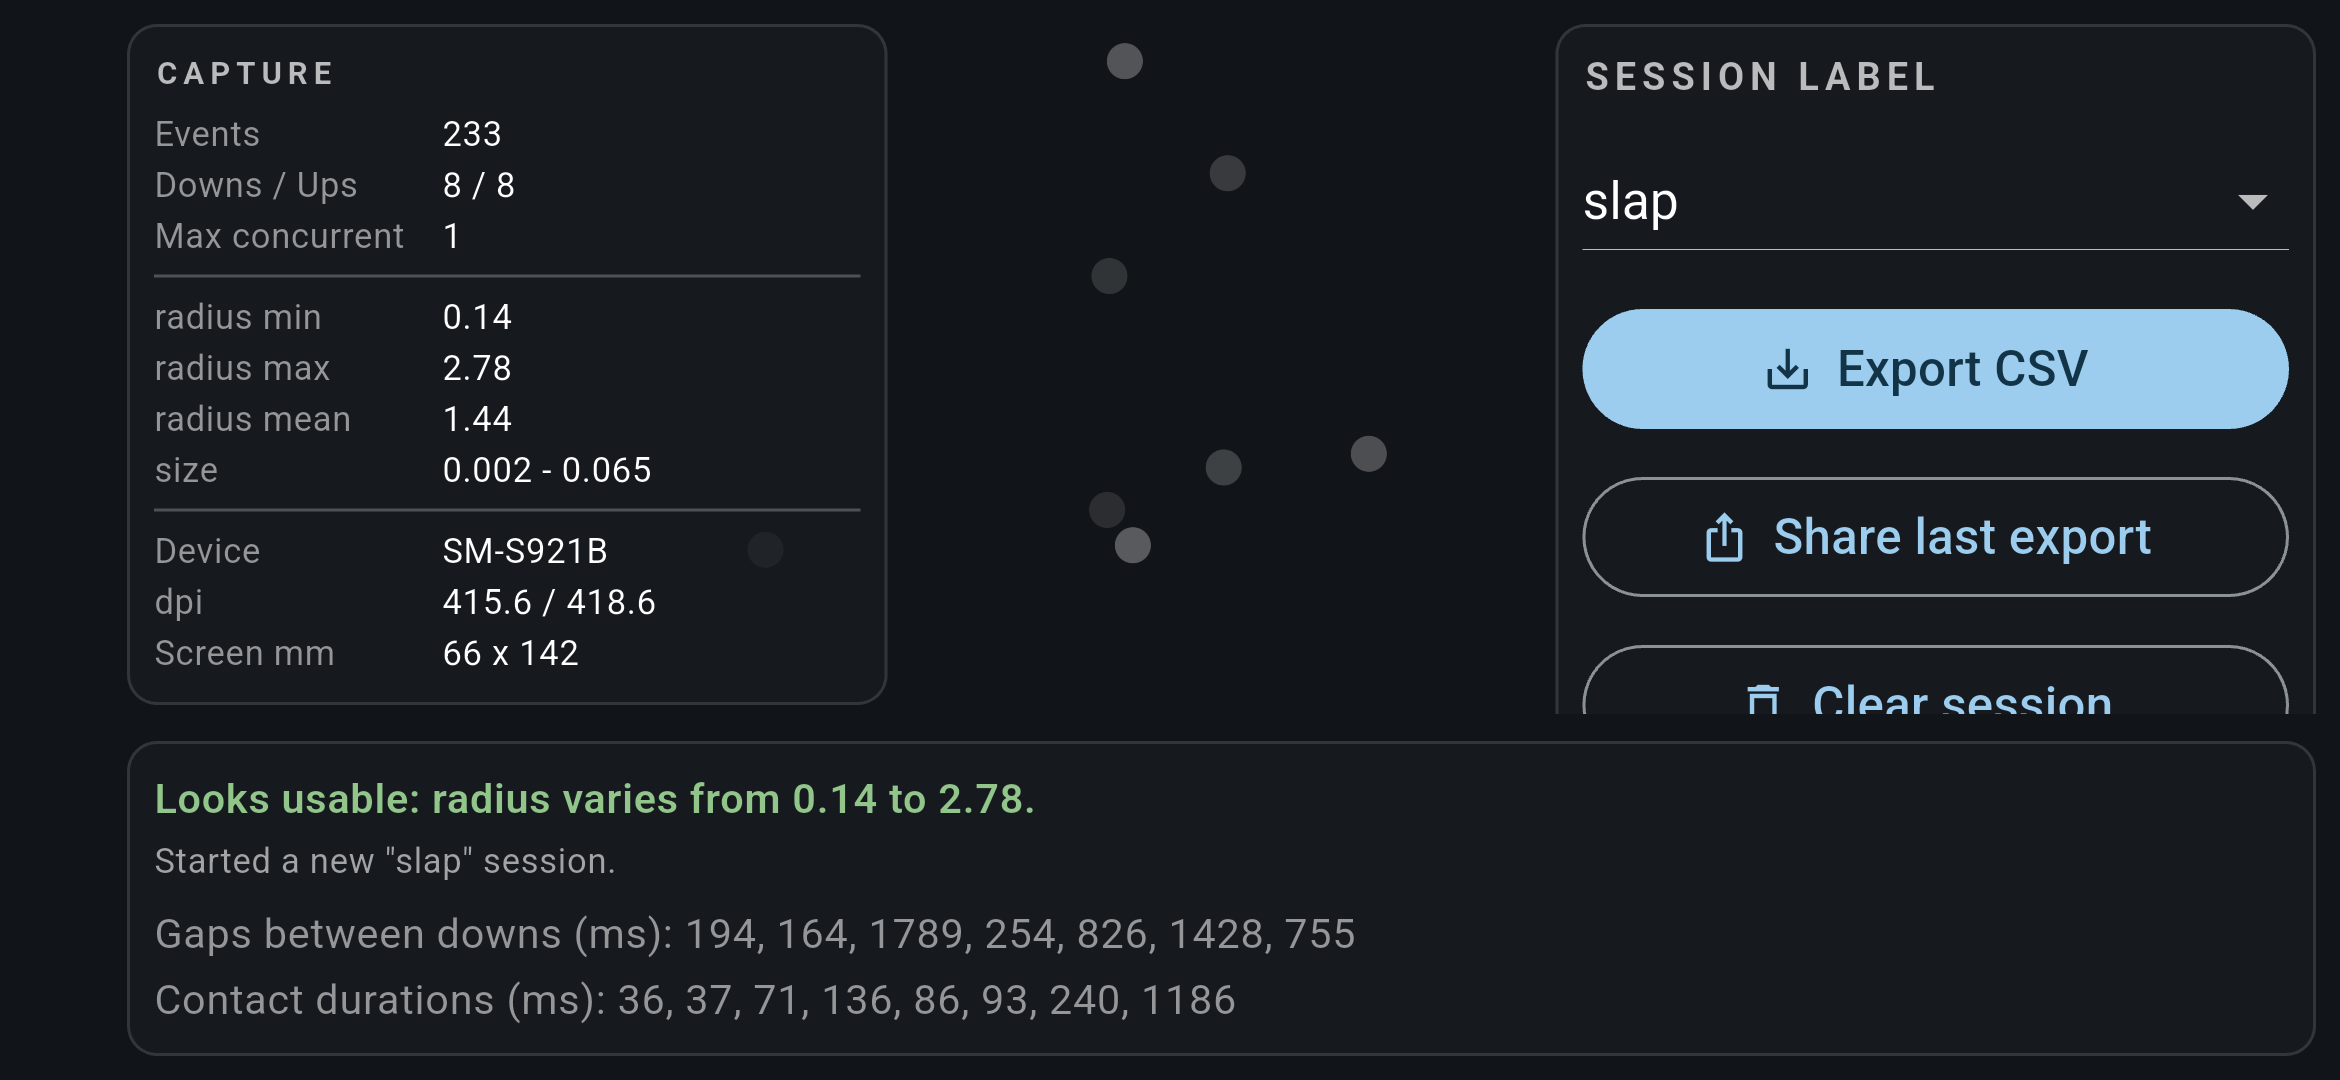
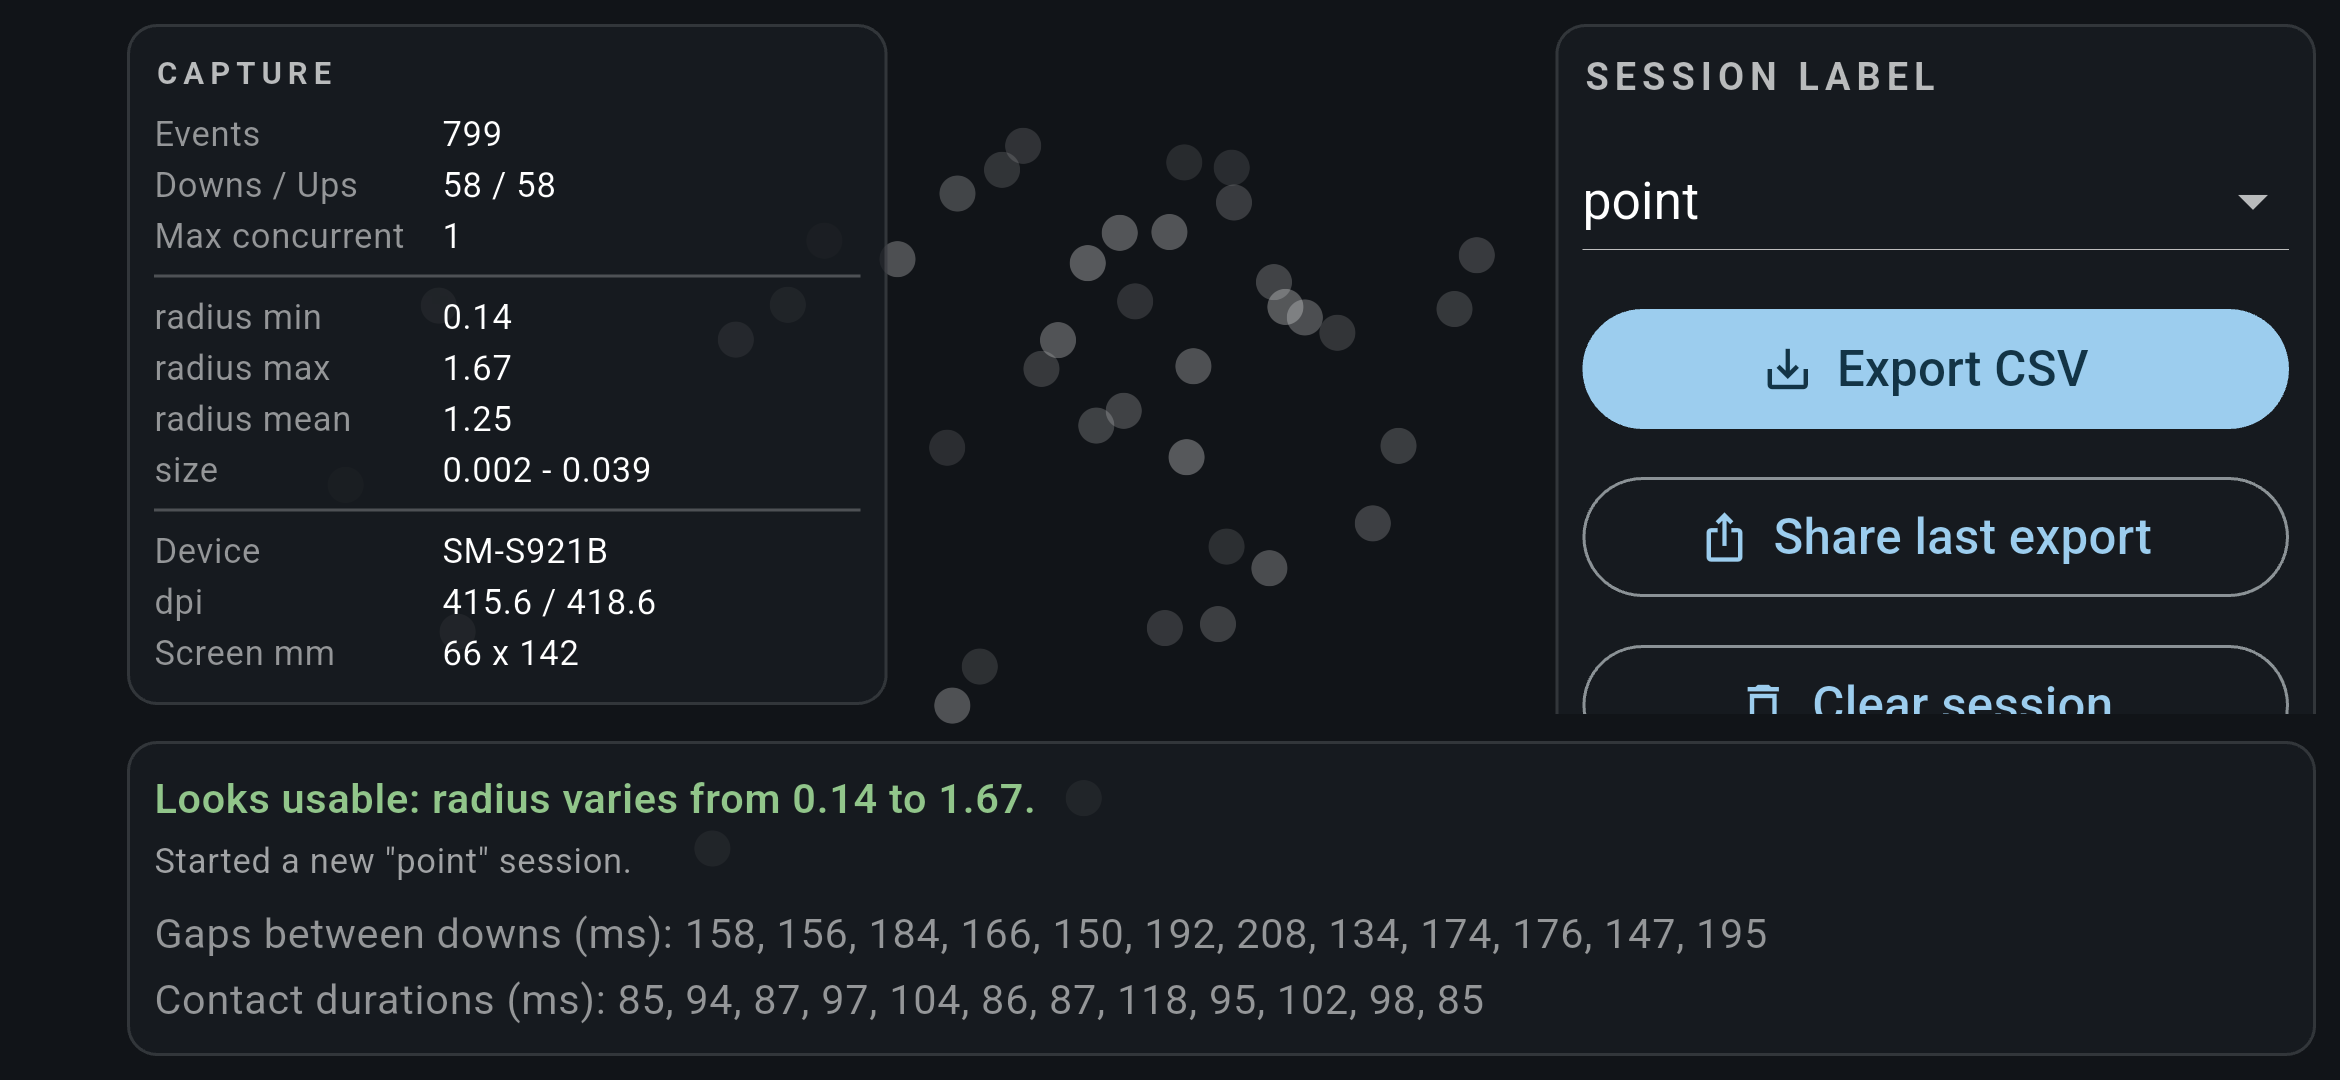
Record touch capture findings; correct the slap model
First real measurements, from a Galaxy S24. Raw captures committed under
docs/captures/ as evidence and as future resolver fixtures.

The central finding overturns an assumption in the palm-mode design. A slap is
not one large contact ellipse. Every captured slap registered as six separate
simultaneous contacts - fingers, knuckles and heel each landing as their own
pointer - scattered across roughly 42 x 46 mm. Half the contacts within a slap
are indistinguishable from a deliberate fingertip tap, because they are
fingertips: radii within a single slap ranged from 0.56 to 5.15.

This makes per-contact radius a weak discriminator and concurrent pointer count
a strong one. Six contacts inside 16 ms is unambiguously a slap, where
deliberate tapping produced one.

It also breaks the first-pointer-wins multi-touch lockout in DESIGN.md 5.3. In
two of three slaps the first contact to register was not the largest, so that
rule selects an arbitrary fingertip rather than the heel of the hand. Section
5.3 is rewritten to coalesce simultaneous contacts into one composite contact,
weighted by area, with the lockout applied to the composite.

Measured slap footprint of 42 x 46 mm scales to roughly 32 x 38 mm for a
10-year-old, which supports the provisional 3x2 grid with margin and confirms a
phone cannot carry the same board at the same reliability.

Two further measurements worth recording: pressure is reported as exactly 1.0
[…]

diff --git a/docs/FINDINGS-TOUCH.md b/docs/FINDINGS-TOUCH.md
@@ -1,0 +1,134 @@
+# Touch capture findings
+
+First real measurements, and they overturn a central assumption in the original
+palm-mode design. Recording them here because the conclusion is unintuitive and
+future contributors will otherwise re-derive the wrong model.
+
+## Source data
+
+Captured 19 August 2026 on a **Samsung Galaxy S24 (SM-S921B)**, Android 16,
+release build. Raw files are committed in `docs/captures/`.
+
+| Session | Downs | Max concurrent pointers |
+|---|---|---|
+| `point` (adult fingertip taps) | 58 | 1 |
+| `point` (second run) | 46 | 3 |
+| `slap` (adult flat-palm slaps) | 18 | 6 |
+
+Device: 1080 x 2340 px, true **xdpi 415.6 / ydpi 418.6**, devicePixelRatio 3.0,
+panel 66 x 142 mm.
+
+**Caveats.** These are an adult hand, not Kyle's; a 10-year-old's contact will be
+roughly 75-85% of these figures. And a flagship Samsung is a best case — the
+Fire HD 8's touch controller is likely to be worse, not better.
+
+---
+
+## Finding 1: a slap is not one large contact, it is a constellation
+
+This is the important one. The design assumed a palm slap produces a single
+large contact ellipse, and that resolving it by area overlap would identify the
+intended cell.
+
+It does not. Every slap in the capture registered as **six separate simultaneous
+contacts**, scattered across a large area:
+
+| Slap | Contacts | Footprint | Largest radius | First contact was largest? |
+|---|---|---|---|---|
+| 1 | 6 | 42.1 x 51.2 mm | 3.90 | **no** |
+| 2 | 6 | 41.5 x 46.3 mm | 5.15 | yes |
+| 3 | 6 | 49.2 x 41.0 mm | 2.78 | **no** |
+
+The fingers, knuckles and heel of the hand each land as their own pointer. There
+is no single ellipse to measure.
+
+### Consequences
+
+- **Per-contact radius is a weak discriminator.** Within a single slap, radii
+  ranged from 0.56 to 5.15. Half the contacts in a slap are indistinguishable
+  from a deliberate fingertip tap, because they *are* fingertips.
+- **Concurrent pointer count is a strong discriminator.** Six contacts inside
+  16 ms is unambiguously a slap. Deliberate tapping produced one.
+- **The "first pointer wins" multi-touch lockout in `DESIGN.md` 5.3 is wrong.**
+  In two of three slaps the first contact to register was *not* the largest, so
+  first-pointer-wins selects an arbitrary fingertip rather than the heel of the
+  hand. It suppresses double-firing correctly but picks the wrong target.
+
+### Recommended design change
+
+Treat contacts arriving within a short window as **one composite contact**
+rather than as competing individual pointers:
+
+1. Gather all pointers down within a coalescing window (~50 ms).
+2. Resolve the composite against the grid, weighting each contact by its area,
+   or take the largest single contact as the intended point.
+3. Apply the existing lockout to the composite, not to each pointer.
+
+The existing exact ellipse-overlap arithmetic is still correct and still needed
+— it just needs to be applied to a weighted set of contacts rather than to one.
+
+---
+
+## Finding 2: a slap covers 42-51 mm, which sets the grid
+
+Measured footprint is consistently around **42 x 46 mm** for an adult hand.
+Scaling to a 10-year-old gives roughly **32 x 38 mm**.
+
+Against the target devices:
+
+| Device | Usable area | Cells that fit a child's slap |
+|---|---|---|
+| Fire HD 8 | 172 x 108 mm | about 5 x 2 |
+| Galaxy S24 (landscape) | 142 x 66 mm | about 4 x 1 |
+
+This supports the provisional **3 x 2** grid in `DESIGN.md` section 12 with
+comfortable margin, and suggests 4 x 2 would also be defensible on the tablet.
+It confirms that a phone cannot carry the same board at the same reliability,
+which is the open question in `DESIGN.md` 13.2.
+
+---
+
+## Finding 3: reported contact size is quantised and in device-specific units
+
+Radius values are exact integer multiples of **0.1392 logical pixels**. A
+fingertip should be around 22 logical pixels of radius on this panel; the device
+reports 1.25. The values are therefore roughly **15-20x smaller than logical
+pixels**, in some device-specific unit.
+
+This is exactly the case `DESIGN.md` 5.1 anticipated, and is why
+`ResolverConfig.calibrationScale` exists. The constant has not yet been pinned,
+because that needs a `calibration` session: a flat palm of known real size held
+still.
+
+Quantisation also limits resolution: fingertip taps occupied only nine distinct
+levels.
+
+---
+
+## Finding 4: pressure is unusable
+
+All 58 down events in the first point session reported `pressure` of exactly
+**1.0000**. The device reports no finger force at all.
+
+Combined with the fact that iPad exposes no finger force either (Apple Pencil
+and legacy 3D Touch only), the conclusion is firm: **nothing in this app may
+depend on pressure.** It currently does not, and must not start.
+
+---
+
+## Finding 5: `size` may be a better signal than radius
+
+`MotionEvent.getSize()` produced eleven distinct levels against radius's nine,
+and is normalised 0..1, so it sidesteps the device-specific units problem
+entirely. Worth evaluating as the primary contact-size signal before committing
+to radius.
+
+---
+
+## Still open
+
+- A `calibration` session, to pin `calibrationScale` to real millimetres.
+- The same four sessions captured on the **Fire HD 8**, which is the actual
+  target and probably has a poorer touch controller.
+- The same on a rugged phone, to quantify how badly small screens degrade.
+- Kyle's own contact sizes, which are the ones that actually matter.

diff --git a/docs/DESIGN.md b/docs/DESIGN.md
@@ -244,14 +244,31 @@ threshold (default 15%), the activation is **ambiguous**. Configurable response:
 
 Start Kyle on `nearest`, and revisit with the SLT team after observation.
 
-### 5.3 Multi-touch lockout
+### 5.3 Multi-touch handling
 
-A slap frequently registers several pointers within milliseconds.
+> **Superseded by measurement.** See `FINDINGS-TOUCH.md`. The scheme originally
+> described here — take the first pointer down as authoritative and ignore the
+> rest — suppresses double-firing correctly but selects the wrong target. In two
+> of three measured slaps the first contact to register was not the largest, so
+> first-pointer-wins picks an arbitrary fingertip rather than the heel of the
+> hand.
 
-- Take the **first** pointer down as authoritative.
-- Ignore additional pointers until all pointers are released.
-- Apply a **post-activation lockout** after each activation (default 800 ms)
-  during which no further activation can occur, killing bounce and double-fire.
+Real measurement shows a slap is **not one large contact**. Every captured slap
+registered as **six separate simultaneous contacts** — fingers, knuckles and
+heel each landing as their own pointer — scattered across roughly 42 x 46 mm.
+Half of those contacts are indistinguishable from a deliberate fingertip tap,
+because they are fingertips.
+
+The design therefore treats simultaneous contacts as **one composite contact**:
+
+- Gather every pointer going down within a **coalescing window** (default 50 ms).
+- Resolve the composite against the grid, weighting each contact by its area.
+- Apply the **post-activation lockout** (default 800 ms) to the composite, not
+  to each pointer, so a single slap produces exactly one activation.
+
+Concurrent pointer count is itself a strong signal: six contacts inside 16 ms is
+unambiguously a slap, where deliberate tapping produced one. This is a more
+reliable palm indicator than any single contact's radius.
 
 ### 5.4 Activation timing
 
